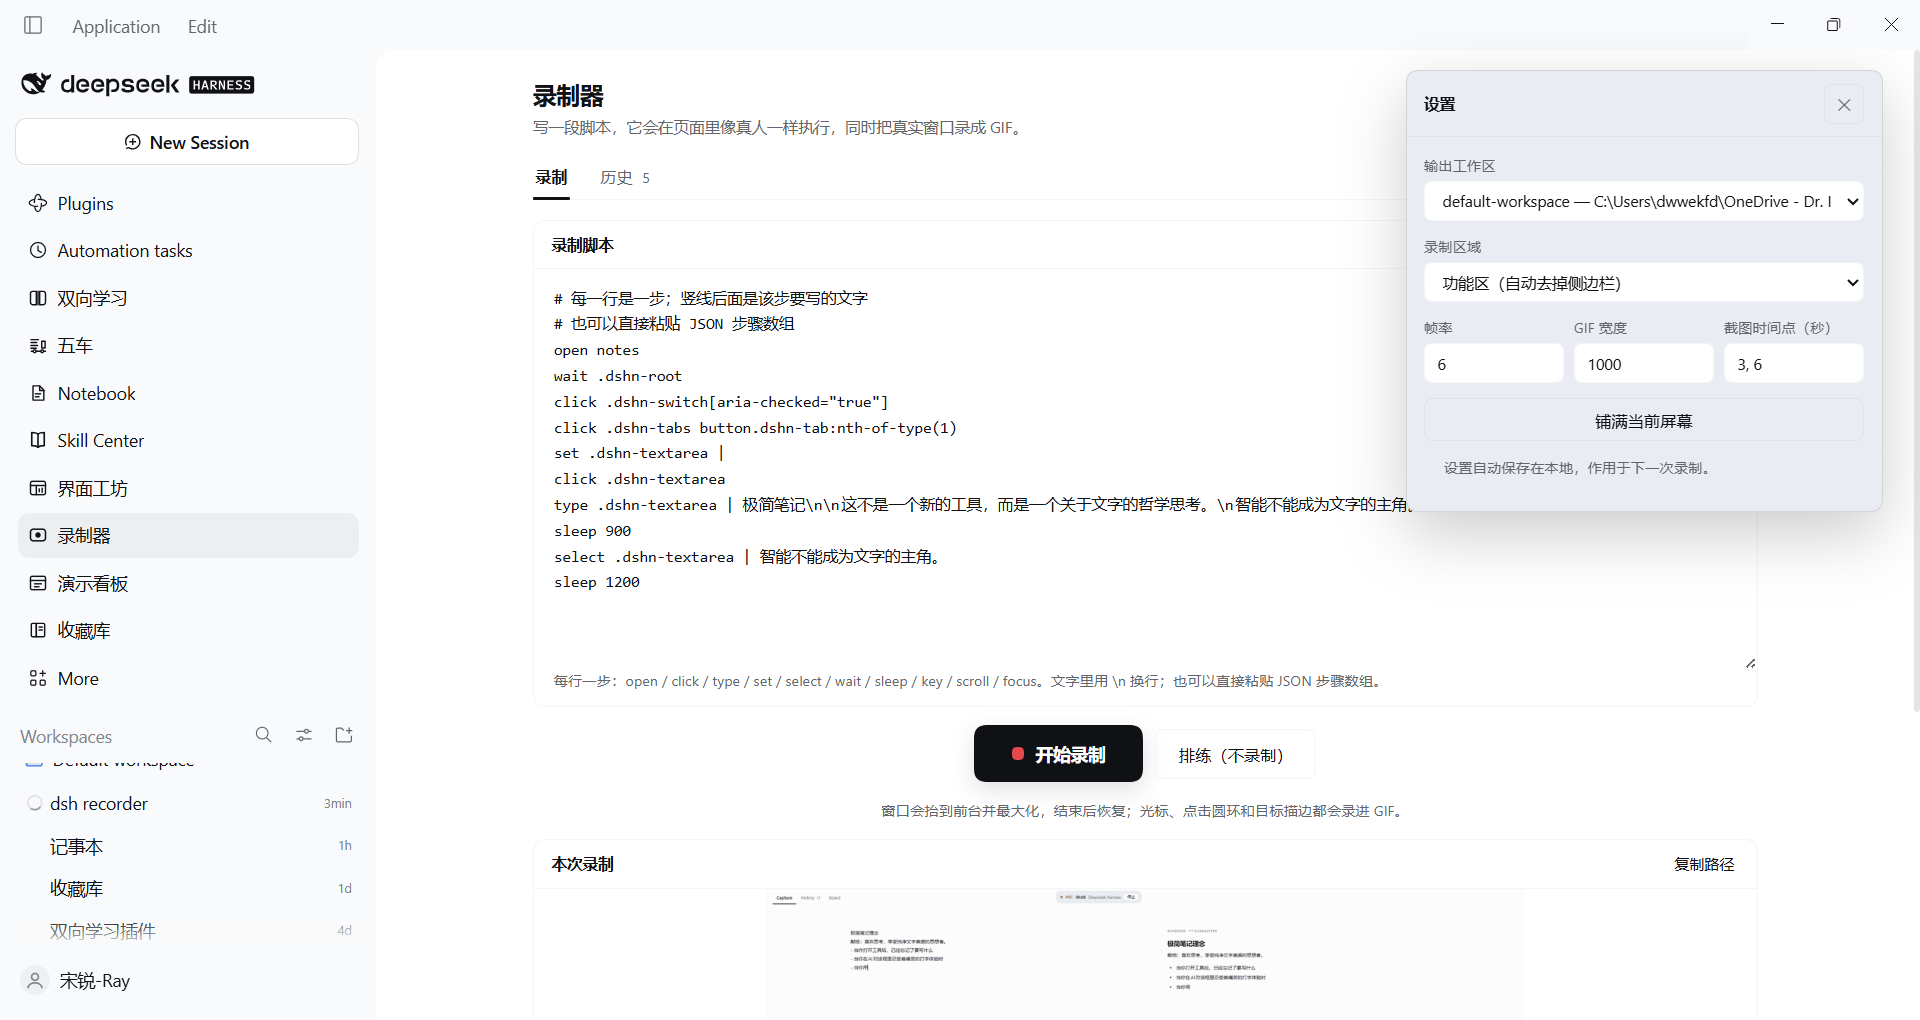
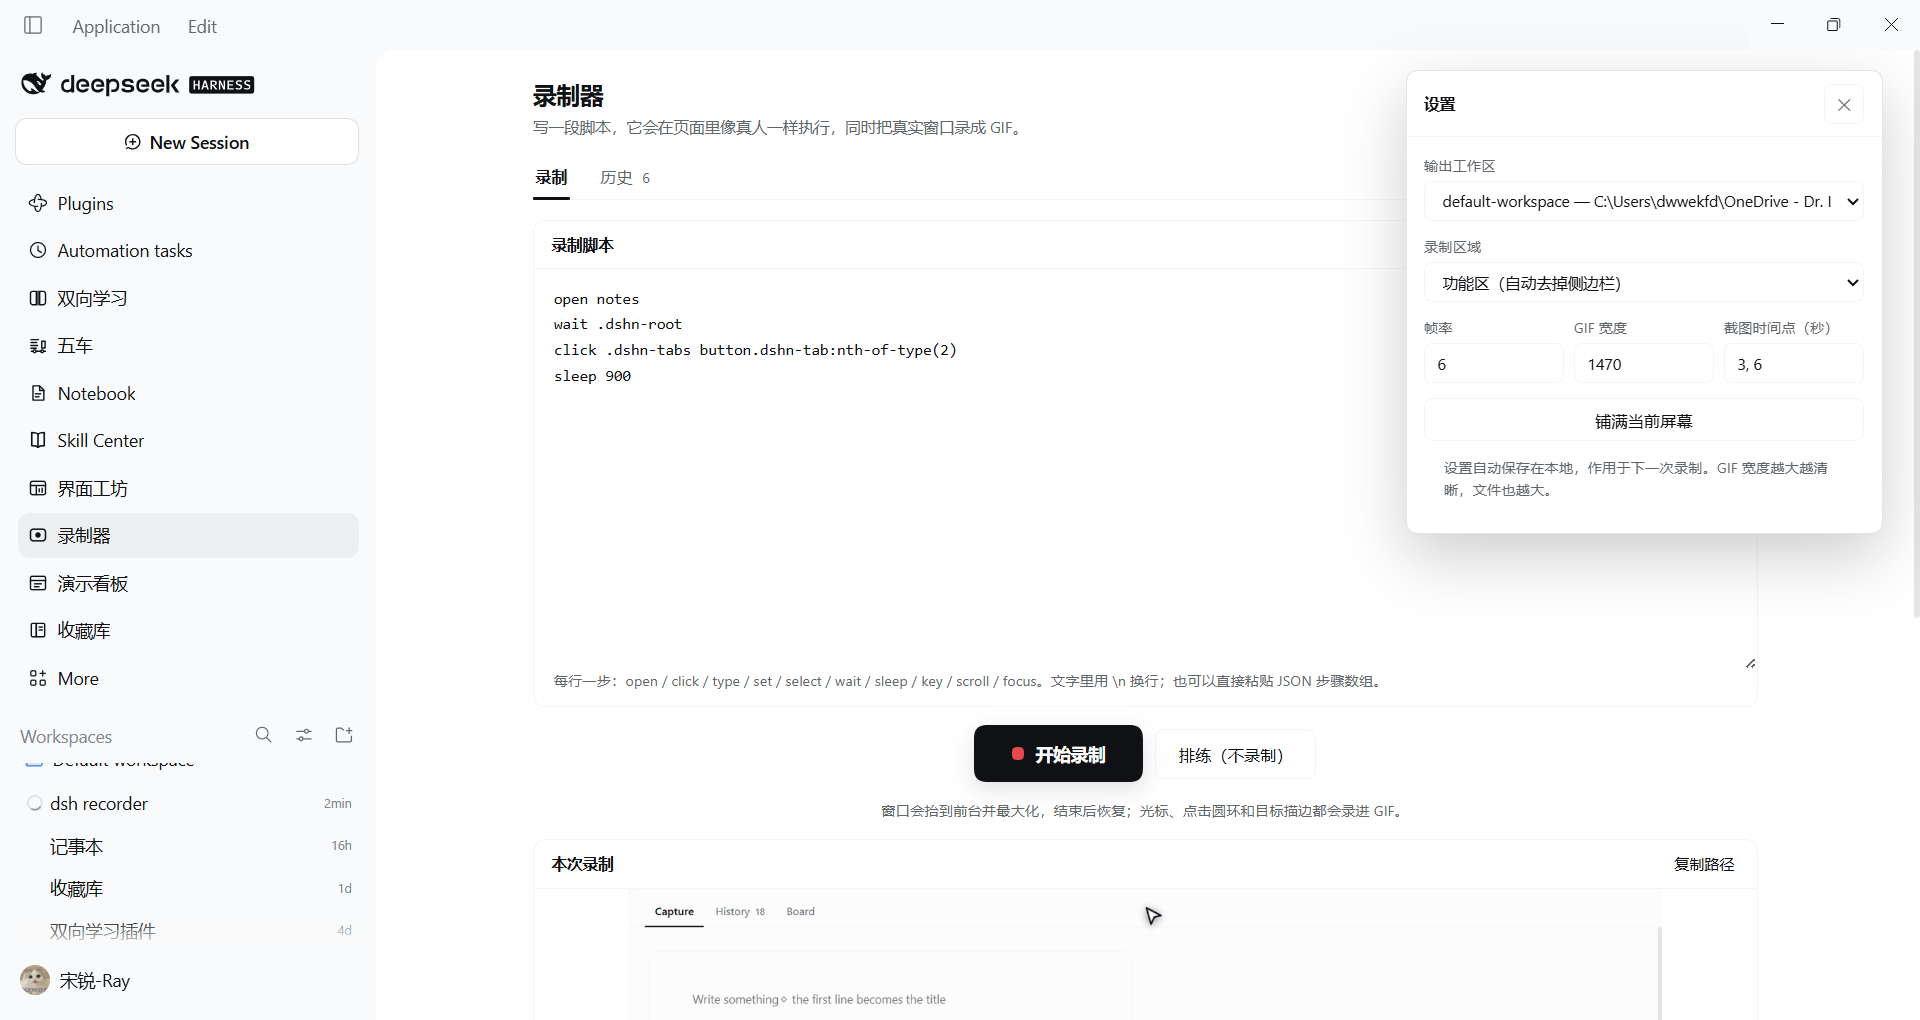
recorder: settings matches the page surface; sharper GIFs by default
The settings popover used the blue-grey bg-overlay token; it now uses bg-base like the page. GIF width defaults to the content's physical pixel width (innerWidth - sidebar) * devicePixelRatio so the preview is not upscaled, and the encoder palette is 256 colours instead of 128.

diff --git a/client.js b/client.js
@@ -1097,7 +1097,18 @@ sleep 1200`
       const [preview, setPreview] = useState(null)
       const [script, setScript] = useState(readDraft)
       const [fps, setFps] = useState(6)
-      const [width, setWidth] = useState(1000)
+      // The GIF is encoded at the crop's physical width so the preview is not upscaled: a 1000 px GIF
+      // on a 125% display is stretched past 1200 device pixels and reads as blurry. Capped to keep the
+      // file reasonable; the setting overrides it per run.
+      const [width, setWidth] = useState(() => {
+        try {
+          const dpr = window.devicePixelRatio || 1
+          const content = Math.max(640, window.innerWidth - 360)
+          return Math.max(900, Math.min(1600, Math.round(content * dpr)))
+        } catch {
+          return 1400
+        }
+      })
       const [stills, setStills] = useState('3, 6')
       const [workspaces, setWorkspaces] = useState([])
       const [workspace, setWorkspace] = useState('')
@@ -1499,7 +1510,7 @@ sleep 1200`
                   optionField('截图时间点（秒）', h('input', { className: 'dshr-input', value: stills, onChange: (event) => setStills(event.target.value), 'aria-label': '截图时间点' })),
                 ),
                 h('button', { className: 'dshr-secondary dshr-wide', type: 'button', onClick: () => void fillScreen() }, '铺满当前屏幕'),
-                h('p', { className: 'dshr-hint dshr-settings-note' }, '设置自动保存在本地，作用于下一次录制。'),
+                h('p', { className: 'dshr-hint dshr-settings-note' }, '设置自动保存在本地，作用于下一次录制。GIF 宽度越大越清晰，文件也越大。'),
               ),
             ),
           )
@@ -1628,7 +1639,7 @@ sleep 1200`
 .dshr-record-dot { width: 10px; height: 10px; border-radius: 50%; background: #e5484d; flex: none; }
 .dshr-note-line { margin: 0; text-align: center; font-size: 11.5px; line-height: 1.5; color: var(--dsw-alias-label-secondary); }
 .dshr-backdrop { position: fixed; inset: 0; z-index: 50; background: transparent; }
-.dshr-settings { position: fixed; top: 56px; right: 30px; z-index: 51; width: 380px; max-height: calc(100% - 90px); overflow: auto; background: var(--dsw-alias-bg-overlay); border: 1px solid var(--dsw-alias-border-l2); border-radius: 12px; box-shadow: 0 18px 50px rgba(0,0,0,.2); }
+.dshr-settings { position: fixed; top: 56px; right: 30px; z-index: 51; width: 380px; max-height: calc(100% - 90px); overflow: auto; background: var(--dsw-alias-bg-base); border: 1px solid var(--dsw-alias-border-l2); border-radius: 12px; box-shadow: 0 18px 50px rgba(0,0,0,.2); }
 .dshr-settings-head { display: flex; align-items: center; justify-content: space-between; padding: 10px 14px; border-bottom: 1px solid var(--dsw-alias-border-l1); }
 .dshr-settings-body { padding: 14px; display: flex; flex-direction: column; gap: 12px; }
 .dshr-settings-grid { display: grid; grid-template-columns: repeat(3, minmax(0, 1fr)); gap: 8px; }

diff --git a/tools/record-window.py b/tools/record-window.py
@@ -351,7 +351,7 @@ def activate(hwnd):
 
 
 def assemble_gif(frames_dir, out_dir, width, fps):
-    """One shared palette from a middle frame, 128 colours: the GIF stays small and stable."""
+    """One shared palette from a middle frame, 256 colours: crisp UI text without per-frame palettes."""
     paths = sorted(glob.glob(os.path.join(frames_dir, "f*.png")))
     if not paths:
         return None, 0
@@ -359,7 +359,7 @@ def assemble_gif(frames_dir, out_dir, width, fps):
     ratio = width / first.width
     size = (width, max(1, round(first.height * ratio)))
     images = [Image.open(path).convert("RGB").resize(size, Image.LANCZOS) for path in paths]
-    palette = images[len(images) // 2].quantize(colors=128, method=Image.MEDIANCUT)
+    palette = images[len(images) // 2].quantize(colors=256, method=Image.MEDIANCUT)
     quantized = [image.quantize(palette=palette, dither=Image.NONE) for image in images]
     gif = os.path.join(out_dir, "recording.gif")
     quantized[0].save(

diff --git a/docs/findings.md b/docs/findings.md
@@ -141,6 +141,8 @@ Everything below was observed while turning the prototype into `@tyouter/dsh-rec
 | Escape is not a dependable stop | the app consumes Escape somewhere before a document-level listener (a real key press with the window foreground did not stop the recording). The listener is left as a best-effort fallback, but the pill button and the panel's 停止 are the controls to rely on |
 | A stop that takes 15 s looks like a dead button | splicing a 26 s / 211-frame recording into a GIF takes a while; the pill used to stay on screen with the clock during assembly. It now disappears the moment 停止 is pressed and a toast says the GIF is being built |
 | Click feedback is an in-page overlay | the pointer, motion breadcrumbs, double ring and element outline are DOM elements, so they are captured with the page and need no post-processing. The theme's brand colour is near-black here, so the effects use a fixed blue (`#4d6bfe`) instead of `--dsw-alias-brand-primary` or they would vanish into text and borders; the overlay's element outline is what makes a small click still readable at 900 px |
+| **A 1000 px GIF is blurry on a 125% display** | the panel preview is ~978 CSS px = ~1222 device px, so a 1000 px GIF is upscaled 1.22x before it reaches the screen; the GIF was also encoded below the crop's physical width (1470). The width now defaults to `(innerWidth - sidebar) * devicePixelRatio` (1470 here, capped at 1600), and the encoder palette went from 128 to 256 colours. Old 1000 px recordings stay soft; re-record to get the sharper ones |
+| Settings used the wrong surface token | the popover had `--dsw-alias-bg-overlay`, a blue-grey floating surface, while the page is `--dsw-alias-bg-base`; it now uses `bg-base` and matches the page |
 
 ## Window geometry
 

diff --git a/README.md b/README.md
@@ -36,7 +36,9 @@ page:
 
 - 输出工作区 — which registered workspace's `recordings/` receives the output.
 - 录制区域 — `功能区` (crop to the main panel), `整个窗口`, `自定义区域` + a CSS selector.
-- 帧率 / GIF 宽度 / 截图时间点 — 6 fps and 900–1000 px are good defaults; stills are seconds.
+- 帧率 / GIF 宽度 / 截图时间点 — 6 fps. The GIF width defaults to the content's **physical** pixel
+  width (≈1470 on a 125% display) so the preview is never upscaled; lower it to shrink files, and
+  remember the encoder cannot add detail beyond the source. Stills are seconds.
 - 铺满当前屏幕 — maximize on the monitor under the cursor.
 
 ![Settings](docs/panel-settings.png)
